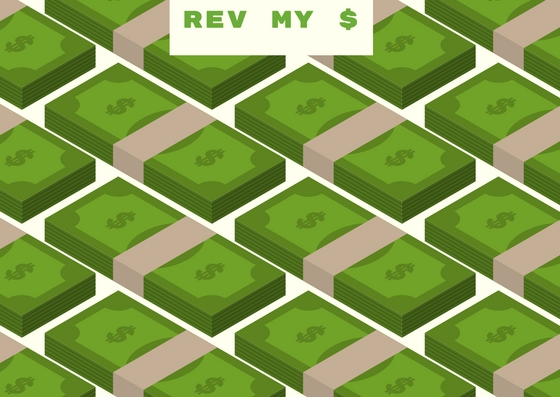
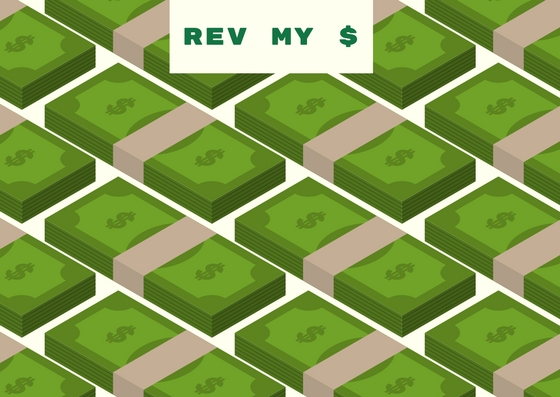
Added bottom section of the HTML/CSS framework

Changed region(s): [[0.3036, 0.0, 0.6679, 0.2116]]

diff --git a/index.html b/index.html
@@ -64,9 +64,58 @@
     </div>
 
     <!--Table Section of Website  -->
-    <div class="container2">Container 2
-        <table> Fixed Expense</table>
-        <table>Daily Expense Log</table>
+
+    <div class="container2">
+
+        <div class="container2-1">
+            <h4>Today's Expenses</h4>
+            <div class="container2-1-1">
+                <table>Amount and Category</table>
+            </div>
+            <div class="container2-1-2">
+                    <label for="todaysExpenses">Amount</label>
+                    <input class="form-control" type="number" name="expenses" id="todaysExpenses" value="" autofocus placeholder="Enter Expense Amount">
+                    <div class="form-group expenseCategory">
+                            <label for="expenseCategory">Expense Category</label>
+                            <select id="expenseCategory" class="form-control" name="expenseType">
+                              <option value="fuel">Fuel</option>
+                              <option value="shopping">Shopping</option>
+                              <option value="clothes">Clothes</option>
+                              <option value="gifts">Gifts</option>
+                              <option value="entertainment">Entertainment</option>
+                              <option value="">Other</option>
+                            </select>
+                    </div>
+                    <div class="buttons">
+                            <button data-type-button="submit" type="submit" class="btn btn-default">Submit</button>
+                            <button type="reset" class="btn btn-default">Reset</button>
+                    </div>
+            </div>
+        </div>
+
+        <div class="container2-2">
+            <h4>Fixed Expenses</h4>
+            <div class="container2-1-1">
+                    <table>Amount and Category</table>
+                </div>
+                <div class="container2-1-2">
+                        <label for="todaysExpenses">Amount</label>
+                        <input class="form-control" type="number" name="expenses" id="todaysExpenses" value="" autofocus placeholder="Enter Expense Amount">
+                        <div class="form-group expenseCategory">
+                                <label for="expenseCategory">Expense Category</label>
+                                <select id="expenseCategory" class="form-control" name="expenseType">
+                                  <option value="rent">Rent</option>
+                                  <option value="car">Car</option>
+                                  <option value="phone">Utilities</option>
+                                  <option value="">Other</option>
+                                </select>
+                        </div>
+                        <div class="buttons">
+                                <button data-type-button="submit" type="submit" class="btn btn-default">Submit</button>
+                                <button type="reset" class="btn btn-default">Reset</button>
+                        </div>
+                </div>
+        </div>
     </div>
     
     <script src="main.js"></script>

diff --git a/styles.css b/styles.css
@@ -78,6 +78,27 @@ p {
     height: 60%;
 }
 
+.container2-1 {
+    display: block;
+    width: 50%;
+    background-color: rgb(25, 121, 25);
+    border: 1rem solid rgb(25, 121, 25);
+}
+
+.container2-1-1 {
+    display: inline-block;
+    width: 100%;
+    height: 70%;
+    background-color: white;
+}
+
+.container2-2 {
+    display: block;
+    width: 50%;
+    background-color: rgb(25, 121, 25);
+    border: 1rem solid rgb(25, 121, 25);
+}
+
 .monthlySavings input {
     display: block;
     margin: 0 auto;
@@ -86,7 +107,7 @@ p {
 
 #imageWrap {
     width: 100%;
-    padding-top: 10%;
+    padding-top: 13%;
     background-position: 50% 0%;
     background-size: cover;
 }
